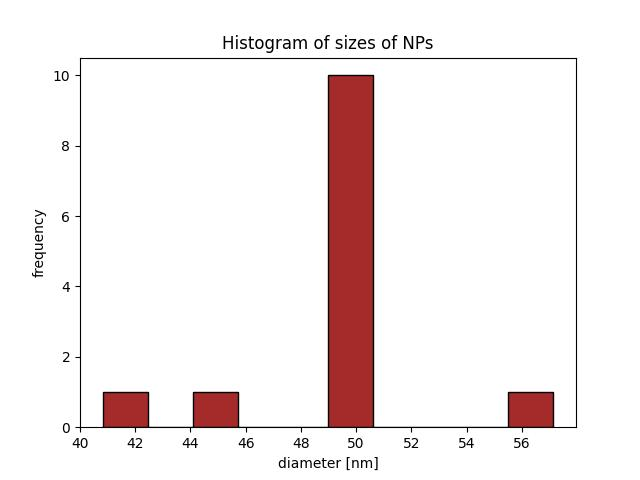
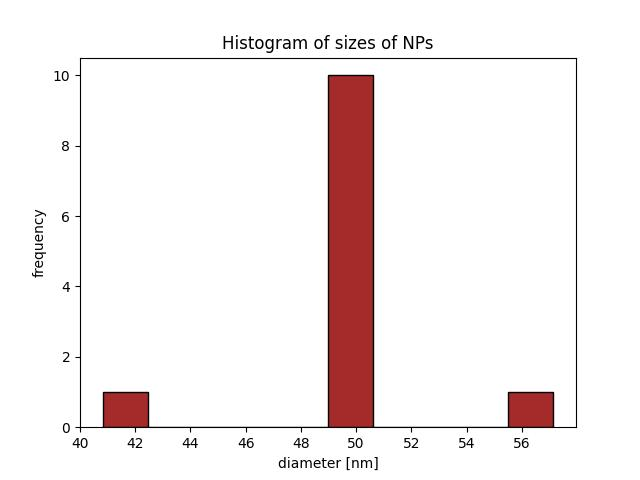
different inputs

Changed region(s): [[0.2812, 0.8125, 0.375, 0.9062]]

diff --git a/app_gui.py b/app_gui.py
@@ -29,6 +29,12 @@ class MainWindow(QMainWindow):
         self.home.triggered.connect(self.home_window)
         toolbar.addAction(self.home)
 
+        self.images_res = QAction(QIcon('image_icon.png'),
+                                    'Images', self)
+        self.images_res.triggered.connect(self.img_window)
+        self.images_res.setDisabled(True)
+        toolbar.addAction(self.images_res)
+
         self.histogram = QAction(QIcon('hist.png'),
                                     'Histogram', self)
         self.histogram.triggered.connect(self.hist_window)
@@ -40,9 +46,6 @@ class MainWindow(QMainWindow):
         self.help.triggered.connect(self.help_window)
         toolbar.addAction(self.help)
 
-        self.show_more = QAction(QIcon('show.png'),
-                                    'show more', self)
-        toolbar.addAction(self.show_more)
 
         main_layout = QWidget()
         self.setCentralWidget(main_layout)
@@ -50,15 +53,17 @@ class MainWindow(QMainWindow):
         self.stack1 = QWidget()
         self.stack2 = QWidget()
         self.stack3 = QWidget()
+        self.stack4 = QWidget()
 
         self.stack1UI()
         self.stack2UI()
         self.stack3UI()
             
-        self.Stack = QStackedWidget (self)
-        self.Stack.addWidget (self.stack1)
-        self.Stack.addWidget (self.stack2)
-        self.Stack.addWidget (self.stack3)
+        self.Stack = QStackedWidget(self)
+        self.Stack.addWidget(self.stack1)
+        self.Stack.addWidget(self.stack2)
+        self.Stack.addWidget(self.stack3)
+        self.Stack.addWidget(self.stack4)
             
         hbox = QHBoxLayout(main_layout)
         hbox.addWidget(self.Stack)
@@ -70,11 +75,14 @@ class MainWindow(QMainWindow):
     def home_window(self):
         self.Stack.setCurrentIndex(0)
 
-    def hist_window(self):
+    def img_window(self):
         self.Stack.setCurrentIndex(1)
 
-    def help_window(self):
+    def hist_window(self):
         self.Stack.setCurrentIndex(2)
+
+    def help_window(self):
+        self.Stack.setCurrentIndex(3)
 
             
     def stack1UI(self):
@@ -87,39 +95,12 @@ class MainWindow(QMainWindow):
         layout.addWidget(title, 0, 0, 2, 6,
                                 Qt.AlignmentFlag.AlignTop)
 
-        self.add_img = QPushButton('Add image')
+        self.add_img = QPushButton('Analyze')
         self.add_img.clicked.connect(self.add_img_fcn)
         self.add_img.setFixedSize(300, 40)
         layout.addWidget(self.add_img, 2, 1, 1, 4,
                             Qt.AlignmentFlag.AlignCenter)
 
-        self.process = QPushButton('Segment image')
-        self.process.clicked.connect(self.processing)
-        self.process.setDisabled(True)
-        self.process.setFixedSize(300, 40)
-        layout.addWidget(self.process, 2, 5, 1, 4,
-                            Qt.AlignmentFlag.AlignCenter)
-
-        self.calculation = QPushButton('Calculate', self)
-        self.calculation.clicked.connect(self.calculation_fcn)
-        self.calculation.setDisabled(True)
-        self.calculation.setFixedSize(300, 40)
-        layout.addWidget(self.calculation, 3, 3, 1, 4,
-                            Qt.AlignmentFlag.AlignCenter)
-
-        self.img = QLabel(self)
-        self.img.setPixmap(QPixmap())
-        self.img.setFixedSize(300, 300)
-        self.img.setScaledContents(True)
-        layout.addWidget(self.img, 4, 1, 4, 4,
-                            Qt.AlignmentFlag.AlignCenter)
-
-        self.labeled = QLabel(self)
-        self.labeled.setPixmap(QPixmap())
-        self.labeled.setFixedSize(300, 300)
-        self.labeled.setScaledContents(True)
-        layout.addWidget(self.labeled, 4, 5, 4, 4,
-                            Qt.AlignmentFlag.AlignCenter)
 
         self.avg_size = QLabel('')
         self.avg_size.setProperty('class', '.normal')
@@ -148,6 +129,10 @@ class MainWindow(QMainWindow):
 
 
     def stack3UI(self):
+        pass
+
+
+    def stack4UI(self):
         layout = QFormLayout()
         title = QLabel('Documentation')
         title.setProperty('class', 'heading')
@@ -158,7 +143,7 @@ class MainWindow(QMainWindow):
         text.setWordWrap(True)
         layout.addWidget(text)
             
-        self.stack3.setLayout(layout)
+        self.stack4.setLayout(layout)
 
 
     def add_img_fcn(self):
@@ -172,39 +157,6 @@ class MainWindow(QMainWindow):
             self.img.setScaledContents(True)
 
             self.process.setDisabled(False)
-
-
-
-    def processing(self):
-       
-        img = img_fcn.loading_img(self.fname[0])
-        binary = img_fcn.filtering_img(img)
-        self.labels, _ = img_fcn.watershed_transform(
-                                    binary)
-
-        filename = img_fcn.saving_img(self.labels)
-        self.calculation.setDisabled(False)
-
-        pixmap = QPixmap(filename)
-        self.labeled.setPixmap(pixmap)
-        self.labeled.setFixedSize(300, 300)
-        self.labeled.setScaledContents(True)
-
-
-    def calculation_fcn(self):
-        calc_window = calculate_window(self, self.labels)
-        calc_window.show()
-        calc_window.exec()
-
-        if calc_window.avg:
-            self.avg_size.setText('Average NP area is '
-                    + str(calc_window.avg) + 'px.')
-            self.histogram.setDisabled(False)
-
-            pixmap = QPixmap('histogram.png')
-            self.hist.setPixmap(pixmap)
-            self.hist.setFixedSize(600, 400)
-            self.hist.setScaledContents(True)
 
 
 

diff --git a/img_fcn.py b/img_fcn.py
@@ -28,10 +28,14 @@ def load_inputs(img_path):
     Returns:
         dict: dictionary with path to images, scales and types
     """
-    for root, dirs, files in os.walk(img_path):
+    for _, dirs, files in os.walk(img_path):
+        json_found = False
         for file in files:
             if file.endswith(".json"):
+                if json_found:
+                    raise Exception('multiple input descriptions')
                 json_path = img_path + "/" + file
+                json_found = True
 
     with open(json_path) as json_file:
         input_description = json.load(json_file)
@@ -102,7 +106,10 @@ def filtering_img(img_raw, scale, np_type, pixel_size):
     img = rgb2gray(img_raw)
 
     if np_type == "nanorods":
-        kernel = disk(3)
+        if scale < 200:
+            kernel = disk(5)
+        else:
+            kernel = disk(3)
         img = median(img, kernel)
 
     img = rescale(img, 0.5)
@@ -331,13 +338,21 @@ def filter_blobs(labels, sizes, props):
     """
     if type(sizes) is list:
         median = calc_median(deepcopy(sizes[0]))
+        mean = sum(sizes[0]) / len(sizes[0])
     else:
         median = calc_median(deepcopy(sizes))
+        mean = sum(sizes) / len(sizes)
+    
+    avg = max(mean, median)
 
-    for number, size in props:
-        if size < median / 2:
-            props.remove((number, size))
-            labels[labels == number] = 0
+    i = 0
+    while i < len(props):
+        smaller = props[i][1] < avg / 1.5
+        if smaller:
+            labels[labels == props[i][0]] = 0
+            props.remove((props[i][0], props[i][1]))
+        else:
+            i += 1
 
     return labels, props
 

diff --git a/tryouts/invert_color.py b/tryouts/invert_color.py
@@ -2,10 +2,10 @@ from skimage.io import imread, imsave
 import numpy as np
 import matplotlib.pyplot as plt
 
-img = imread(r'help.png')
+img = imread(r'icons/image_icon.png')
 
 #img = img[:, :, 3]
 
 img[:, :, 0:3] = 255 - img[:, :, 0:3]
 
-plt.imsave('help.png', img)
+plt.imsave('icons/image_icon.png', img)
